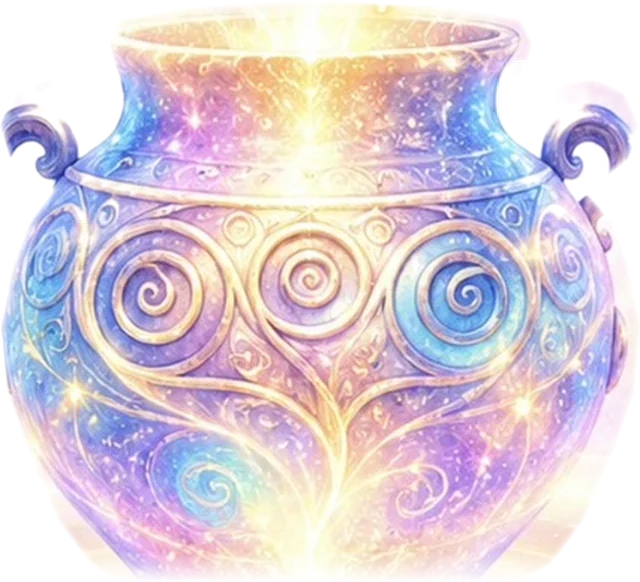
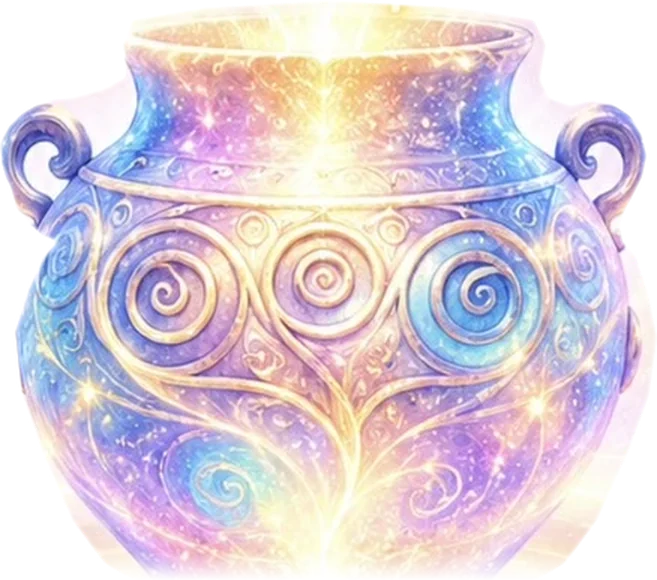
壺の取っ手が欠けていたのを修正し、切り抜きをやり直す
取っ手が切れていた原因は、以前入れた「色で背景を判定して削る」処理。
測り直したところ、背景は min=232 / 彩度0.057 に対し、壺の淡い部分は
min=240 / 彩度0.059 と、壺のほうが明るく彩度も低い箇所があった。
色では原理的に分離できず、壺自身の淡い金の装飾まで背景と誤判定して
穴を開けていた。

- 色による背景判定を全廃し、輪郭のトレースだけで抜くようにした
- 取っ手を拡大して引き直し。とくに下へ伸びる尾が
  輪郭の外に出て切り落とされていたので、左右とも y=206 まで延長
- 外周も取っ手に沿って締め直し、背景の残りを減らした

結果、穴も欠けもなくなり、ファイルも 76KB→66KB に。

Claude-Session: https://claude.ai/code/session_018ZtjTuM5BN3fRJ52QjjMZ9

diff --git a/index.html b/index.html
@@ -86,7 +86,7 @@
     <div class="pool" aria-hidden="true"><span></span><span></span><span></span></div>
     <div class="pot-wrap" id="potWrap">
       <div class="pot-glow"></div>
-      <img class="pot-img" src="pot.webp" width="640" height="582"
+      <img class="pot-img" src="pot.webp" width="657" height="580"
            alt="ルーン文字が舞い上がる光の壺" decoding="async" fetchpriority="high">
       <div class="pot-mouth" aria-hidden="true"></div>
       <div class="pot-rays" aria-hidden="true"><span></span><span></span><span></span></div>
